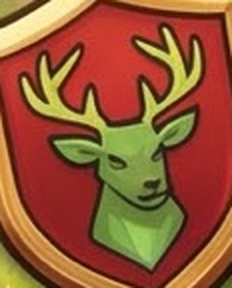
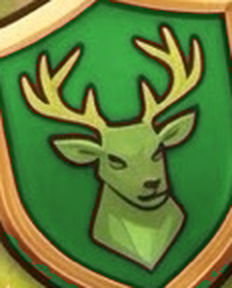
Polish: Elves green on the match-end screen, rounded Long-hair locks
- hud.SCORE_BANDS[0] (Elves) green, so the match summary's band, crest and
  scoreboard section match every other Elf UI (they were red); the stag shield
  art (assets/ui/skills/shield_elf.png) recoloured by the new tools/elves_green.py.
- Long hair's chest locks are rounded tapering pieces with a crown puff and a bead
  tip instead of straight cylinders that read as planks.

Claude-Session: https://claude.ai/code/session_01Rce8De3mNtTAVygogiQvHM

diff --git a/tools/elves_green.py b/tools/elves_green.py
@@ -1,0 +1,30 @@
+"""Turn the reds of an Elves UI picture green, keeping their shading (the
+reference art painted the Elves red; they are green everywhere in the game).
+
+    python3 tools/elves_green.py assets/ui/skills/shield_elf.png
+
+Same rule as tools/make_topbar.py elves_green(): hue within ~20 degrees of
+red, saturation > 70/255 and not near-black. Rewrites the file in place."""
+import sys
+
+import numpy as np
+from PIL import Image
+
+
+def main():
+    path = sys.argv[1]
+    im = Image.open(path).convert("RGBA")
+    alpha = im.getchannel("A")
+    hsv = np.asarray(im.convert("RGB").convert("HSV")).astype(np.int16).copy()
+    h, s, v = hsv[..., 0], hsv[..., 1], hsv[..., 2]
+    red = ((h < 14) | (h > 236)) & (s > 70) & (v > 40)
+    h[red] = 88
+    s[red] = np.clip(s[red] * 0.85, 0, 255).astype(np.int16)
+    v[red] = np.clip(v[red] * 0.82, 0, 255).astype(np.int16)
+    out = Image.fromarray(hsv.astype(np.uint8), "HSV").convert("RGBA")
+    out.putalpha(alpha)
+    out.save(path)
+
+
+if __name__ == "__main__":
+    main()
